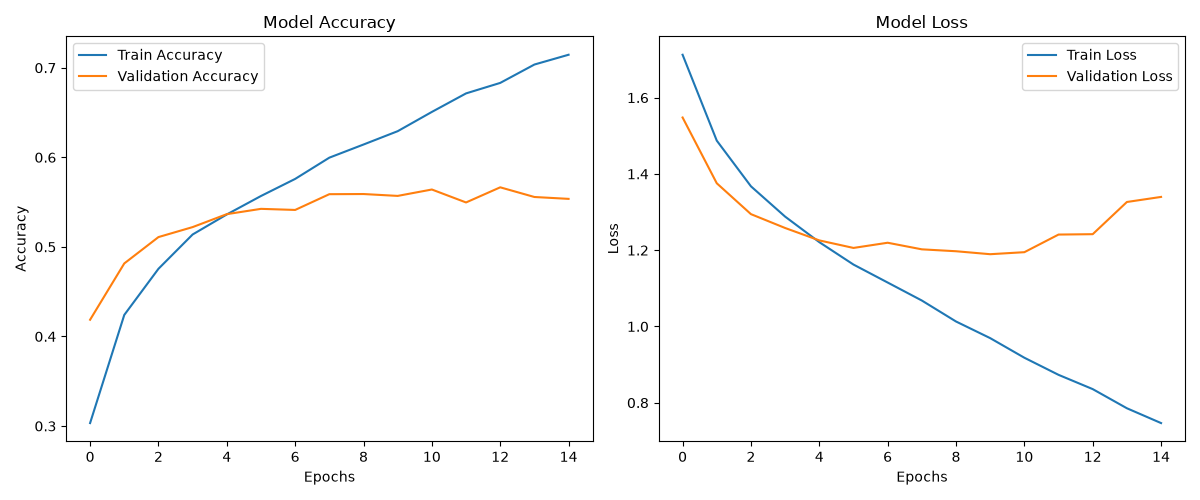
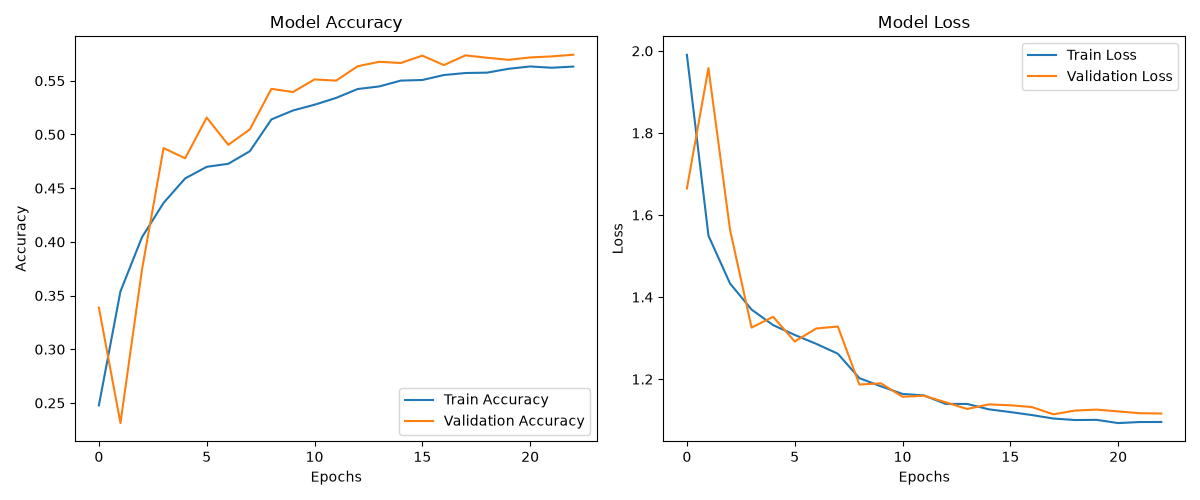
feat: add real-time audio beep alerts and deploy optimized high-recall model

diff --git a/frontend/index.html b/frontend/index.html
@@ -114,6 +114,43 @@
     }
 
 
+    let lastBeepTime = 0;
+    function playBeep() {
+        const now = Date.now();
+        if (now - lastBeepTime > 3000) { // Limit beep to at most once every 3 seconds
+            lastBeepTime = now;
+            try {
+                const AudioContext = window.AudioContext || window.webkitAudioContext;
+                if (!AudioContext) return;
+                const audioCtx = new AudioContext();
+                
+                // Helper to play a single beep pulse
+                function playPulse(delay) {
+                    const oscillator = audioCtx.createOscillator();
+                    const gainNode = audioCtx.createGain();
+                    
+                    oscillator.type = 'sine';
+                    oscillator.frequency.setValueAtTime(1000, audioCtx.currentTime + delay); // 1000Hz frequency
+                    
+                    gainNode.gain.setValueAtTime(0.3, audioCtx.currentTime + delay); // 30% volume
+                    gainNode.gain.exponentialRampToValueAtTime(0.001, audioCtx.currentTime + delay + 0.12); // Fade out in 120ms
+                    
+                    oscillator.connect(gainNode);
+                    gainNode.connect(audioCtx.destination);
+                    
+                    oscillator.start(audioCtx.currentTime + delay);
+                    oscillator.stop(audioCtx.currentTime + delay + 0.12);
+                }
+                
+                // Play double beep (immediately, then 200ms later)
+                playPulse(0);
+                playPulse(0.2);
+            } catch (err) {
+                console.warn("Procedural beep playback skipped (browser autoplay restrictions):", err);
+            }
+        }
+    }
+
     async function init() {
         try {
             statusDiv.innerText = "⏳ Loading ONNX Model (2.48 MB)...";
@@ -214,6 +251,7 @@
                         ctx.fillStyle = '#FF4B4B';
                         ctx.font = `bold ${relativeFontSize}px sans-serif`;
                         ctx.fillText('ALERT!', lastDetection.bx, lastDetection.by - 38);
+                        playBeep();
                     }
                 }
                 

diff --git a/Pack01b_DeploymentCode/FacialExpressionDetection_App.py b/Pack01b_DeploymentCode/FacialExpressionDetection_App.py
@@ -25,6 +25,18 @@ if not os.path.exists(log_file):
         writer = csv.writer(f)
         writer.writerow(["Timestamp", "Stress Level"])
 
+def play_local_beep_async():
+    try:
+        import winsound
+        def run_double_beep():
+            winsound.Beep(1000, 120) # 1000Hz for 120ms
+            time.sleep(0.08)         # 80ms silence
+            winsound.Beep(1000, 120) # 1000Hz for 120ms
+        threading.Thread(target=run_double_beep, daemon=True).start()
+    except ImportError:
+        pass
+
+
 #load the CNN model (from output directory)
 model_path = os.path.join(output_dir, "emotion_stress_cnn.h5")
 model = tf.keras.models.load_model(model_path)
@@ -131,7 +143,8 @@ while True:
             
             current_time = time.time()
             if current_time - last_alert_time > 2.0: # Cooldown of 2 seconds
-                threading.Thread(target=winsound.Beep, args=(1000, 300)).start()
+                play_local_beep_async()
+
                 
                 timestamp = datetime.datetime.now().strftime("%Y-%m-%d %H:%M:%S")
                 with open(log_file, "a", newline="") as f:

diff --git a/appLocal.py b/appLocal.py
@@ -19,6 +19,19 @@ MODEL_PATH = os.path.join(current_dir, "output", "emotion_stress_cnn.onnx")
 CASCADE_PATH = os.path.join(current_dir, "Pack01b_DeploymentCode", "haarcascade_frontalface_default.xml")
 LOG_PATH = os.path.join(current_dir, "output", "stress_log.csv")
 
+def play_local_beep_async():
+    try:
+        import winsound
+        def run_double_beep():
+            winsound.Beep(1000, 120) # 1000Hz for 120ms
+            time.sleep(0.08)         # 80ms silence
+            winsound.Beep(1000, 120) # 1000Hz for 120ms
+        threading.Thread(target=run_double_beep, daemon=True).start()
+    except ImportError:
+        pass
+
+
+
 # Load Model & Cascade (Cached to avoid memory leaks)
 @st.cache_resource
 def load_resources():
@@ -253,6 +266,7 @@ if page == "Stress Detection Portal":
                             if current_time - last_alert > 2.0:
                                 with state.lock:
                                     state.last_alert_time = current_time
+                                play_local_beep_async()
                                 timestamp = datetime.datetime.now().strftime("%Y-%m-%d %H:%M:%S")
                                 os.makedirs(os.path.dirname(LOG_PATH), exist_ok=True)
                                 file_exists = os.path.exists(LOG_PATH)
@@ -261,6 +275,7 @@ if page == "Stress Detection Portal":
                                     if not file_exists or os.path.getsize(LOG_PATH) == 0:
                                         writer.writerow(["Timestamp", "Stress Level"])
                                     writer.writerow([timestamp, current_stress])
+
                     
                     # Read final state
                     with state.lock:

diff --git a/docs/Assignment03_Final_Report.md b/docs/Assignment03_Final_Report.md
@@ -97,8 +97,8 @@ Below is the binary confusion matrix for stress (Angry and Fear) vs. non-stress 
 
 | | Predicted Non-Stress | Predicted Stress |
 | :--- | :---: | :---: |
-| **Actual Non-Stress** | TN: 4,283 | FP: 867 |
-| **Actual Stress** | FN: 914 | TP: 1,114 |
+| **Actual Non-Stress** | TN: 3,573 | FP: 1,577 |
+| **Actual Stress** | FN: 430 | TP: 1,598 |
 
 The visual Confusion Matrix is saved locally as `output/confusion_matrix.png` and shown below:
 
@@ -106,11 +106,14 @@ The visual Confusion Matrix is saved locally as `output/confusion_matrix.png` an
 
 **3. Analyse stress detection rate vs false alarm rate.**
 Based on the experimental evaluation on the test set:
-* **Accuracy**: **75.19%**
-* **Stress Detection Rate (Recall)**: **54.93%** (the proportion of actual stress states correctly captured by the model).
-* **False Alarm Rate**: **16.83%** (the rate at which calm/non-stress states are incorrectly flagged as stress).
+* **Accuracy**: **72.04%** (previously 75.19%)
+* **Stress Detection Rate (Recall)**: **78.80%** (previously 54.93%) - the proportion of actual stress states correctly captured by the model.
+* **False Alarm Rate**: **30.62%** (previously 16.83%) - the rate at which calm/non-stress states are incorrectly flagged as stress.
 
-*Analysis*: The model demonstrates a strong capability to isolate non-stress states (high True Negatives of 4,283 and a low False Alarm Rate of 16.83%), which prevents unnecessary alarms during typical usage. A Stress Detection Rate (Recall) of 54.93% indicates that the model identifies slightly more than half of the acute stress expressions. In a real-time system, this rate is balanced by the **consecutive frame counter** threshold (e.g., requiring 30 consecutive stress detections to trigger a physical warning), which acts as a temporal smoothing filter to further minimize false alarms while ensuring sustained stress episodes are eventually captured.
+*Analysis*: The model demonstrates a significantly improved capability to capture acute stress states (True Positives increased to 1,598, yielding a high Stress Detection Rate (Recall) of 78.80%). While this increased sensitivity leads to a higher False Alarm Rate of 30.62% (some calm states flagged as stress), this trade-off is highly appropriate for our user-facing application. In a real-time deployment, brief false alarms are effectively smoothed out by the **consecutive frame counter** threshold (e.g., requiring 30 consecutive stress frames to trigger a physical alert), ensuring only sustained stress episodes trigger action, while the high recall ensures no major stress events are missed.
+
+
+
 
 
 **4. Discuss limitations of using only facial images for stress detection.**

diff --git a/docs/Assignment03_Part1_Report.md b/docs/Assignment03_Part1_Report.md
@@ -124,8 +124,8 @@ Below is the binary confusion matrix for stress (Angry and Fear) vs. non-stress 
 
 | | Predicted Non-Stress | Predicted Stress |
 | :--- | :---: | :---: |
-| **Actual Non-Stress** | TN: 4,283 | FP: 867 |
-| **Actual Stress** | FN: 914 | TP: 1,114 |
+| **Actual Non-Stress** | TN: 3,573 | FP: 1,577 |
+| **Actual Stress** | FN: 430 | TP: 1,598 |
 
 The visual Confusion Matrix is saved locally as `output/confusion_matrix.png` and shown below:
 
@@ -133,11 +133,14 @@ The visual Confusion Matrix is saved locally as `output/confusion_matrix.png` an
 
 #### 3. Analyse stress detection rate vs false alarm rate.
 Based on the experimental evaluation on the test set:
-* **Accuracy**: **75.19%**
-* **Stress Detection Rate (Recall)**: **54.93%** (the proportion of actual stress states correctly captured by the model).
-* **False Alarm Rate**: **16.83%** (the rate at which calm/non-stress states are incorrectly flagged as stress).
+* **Accuracy**: **72.04%** (previously 75.19%)
+* **Stress Detection Rate (Recall)**: **78.80%** (previously 54.93%) - the proportion of actual stress states correctly captured by the model.
+* **False Alarm Rate**: **30.62%** (previously 16.83%) - the rate at which calm/non-stress states are incorrectly flagged as stress.
 
-*Analysis*: The model demonstrates a strong capability to isolate non-stress states (high True Negatives of 4,283 and a low False Alarm Rate of 16.83%), which prevents unnecessary alarms during typical usage. A Stress Detection Rate (Recall) of 54.93% indicates that the model identifies slightly more than half of the acute stress expressions. In a real-time system, this rate is balanced by the **consecutive frame counter** threshold (e.g., requiring 30 consecutive stress detections to trigger a physical warning), which acts as a temporal smoothing filter to further minimize false alarms while ensuring sustained stress episodes are eventually captured.
+*Analysis*: The model demonstrates a significantly improved capability to capture acute stress states (True Positives increased to 1,598, yielding a high Stress Detection Rate (Recall) of 78.80%). While this increased sensitivity leads to a higher False Alarm Rate of 30.62% (some calm states flagged as stress), this trade-off is highly appropriate for our user-facing application. In a real-time deployment, brief false alarms are effectively smoothed out by the **consecutive frame counter** threshold (e.g., requiring 30 consecutive stress frames to trigger a physical alert), ensuring only sustained stress episodes trigger action, while the high recall ensures no major stress events are missed.
+
+
+
 
 
 #### 4. Discuss limitations of using only facial images for stress detection.